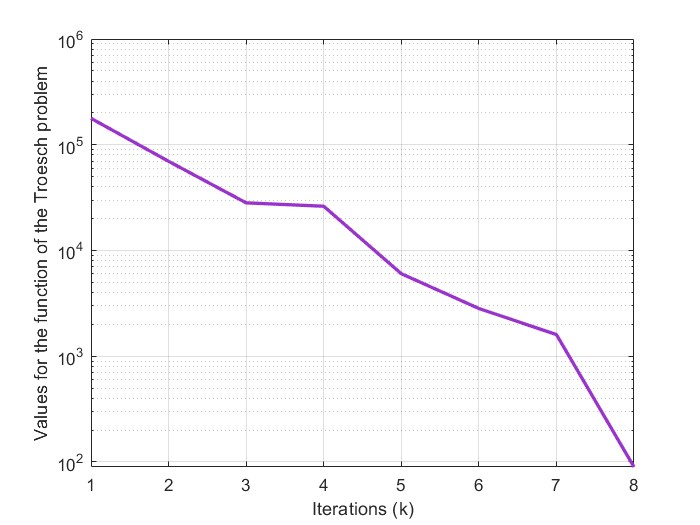
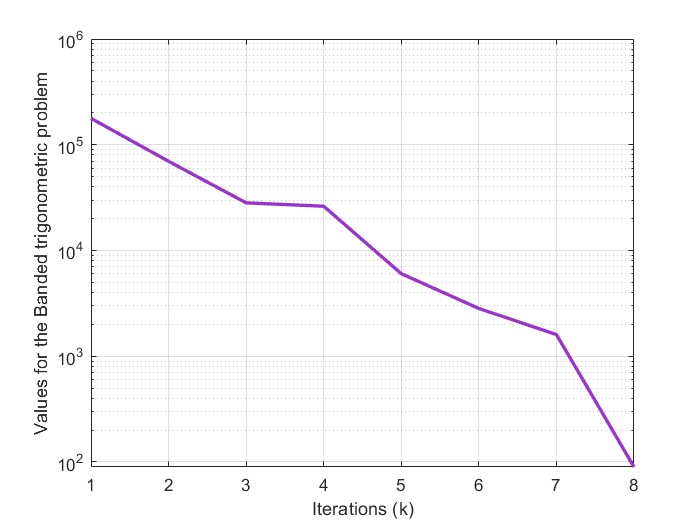
cnj

Changed region(s): [[0.03, 0.1219, 0.09, 0.8229]]

diff --git a/punto_3.m b/punto_3.m
@@ -19,7 +19,7 @@ rng(seed);
 
 %%%%%%%% SECOND POINT %%%%%%%%
 
-d = 4;    % alternative: 3,4,5
+d = 3;    % alternative: 3,4,5
 
 n = 10^d;
 
@@ -238,7 +238,7 @@ figure;
 semilogy(1:k3, f3seq, 'LineWidth', 2, 'Color', [0.6, 0.2, 0.8]);
 grid on;
 xlabel('Iterations (k)');
-ylabel('Values for the function of the Troesch problem'); 
+ylabel('Values for the Banded trigonometric problem'); 
 
 figure;
 hold on;
@@ -247,7 +247,7 @@ bar(1:k3, taoseq3 .* (taoseq3 < 0), 'FaceColor', 'red', 'EdgeColor', 'black'); %
 hold off
 grid on;
 xlabel('Iterations (k)');
-ylabel('Tao values for the function of the Troesch problem'); 
+ylabel('Tao values for the Banded trigonometric problem'); 
 %legend({'Positive values', 'Negative values'});
 
 
